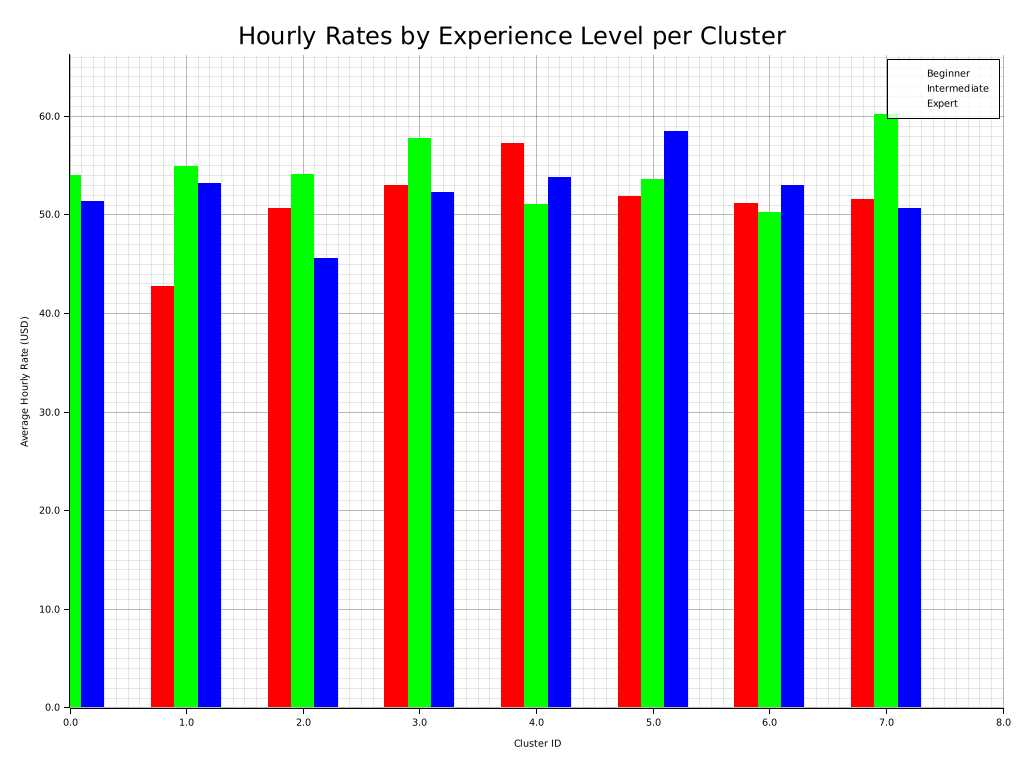
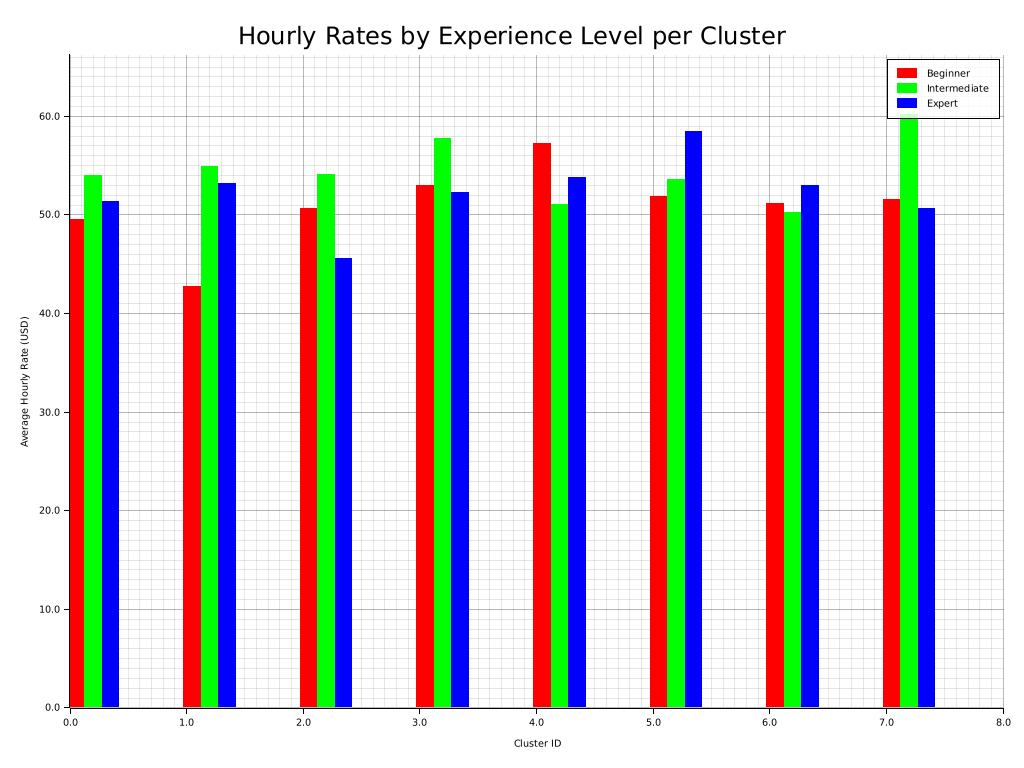
Debug Completed

diff --git a/Final/part1/src/analysis.rs b/Final/part1/src/analysis.rs
@@ -16,6 +16,7 @@ use super::data_loader::Freelancer;
 /// Number of members in each cluster
 /// Average earnings per cluster
 /// Average hourly rate per cluster
+
 pub fn analyze_cluster_performance(clusters: &[Vec<usize>], freelancers: &[Freelancer]) {
     for (cluster_id, member_indices) in clusters.iter().enumerate() {
         let mut total_earnings = 0.0;
@@ -120,6 +121,8 @@ fn print_dominant_attributes(attributes: &HashMap<(&str, String), usize>, catego
 /// Different colors for each experience level
 /// Cluster IDs on x-axis
 /// Average hourly rates on y-axis
+
+
 pub fn plot_cluster_experience_rates(
     clusters: &[Vec<usize>],
     freelancers: &[Freelancer],
@@ -127,7 +130,11 @@ pub fn plot_cluster_experience_rates(
     // 1. Prepare data structure
     let mut cluster_data = Vec::new();
     let experience_levels = ["Beginner", "Intermediate", "Expert"];
-    let colors = [RGBColor(255, 0, 0), RGBColor(0, 255, 0), RGBColor(0, 0, 255)];
+    let colors = [
+        RGBColor(255, 0, 0),    // Red for Beginner
+        RGBColor(0, 255, 0),    // Green for Intermediate
+        RGBColor(0, 0, 255),    // Blue for Expert
+    ];
 
     for (cluster_id, members) in clusters.iter().enumerate() {
         let mut exp_rates = HashMap::new();
@@ -177,13 +184,15 @@ pub fn plot_cluster_experience_rates(
         .draw()?;
 
     // 3. Draw grouped bars with proper coordinate types
-    let bar_width = 0.2;
+    let bar_width = 0.15;  // Reduced bar width for better spacing
+    let group_width = bar_width * 3.0;  // Total width for all three bars
+    
     for (exp_idx, exp) in experience_levels.iter().enumerate() {
         let x_offset = (exp_idx as f64 - 1.0) * bar_width;
 
         chart.draw_series(
             cluster_data.iter().map(|(cluster_id, rates)| {
-                let x_center = *cluster_id as f64 + x_offset;
+                let x_center = *cluster_id as f64 + 0.2 + x_offset;
                 let y_value = rates[exp_idx] as f64;
                 
                 Rectangle::new(
@@ -194,7 +203,13 @@ pub fn plot_cluster_experience_rates(
                     colors[exp_idx].filled(),
                 )
             })
-        )?.label(*exp);
+        )?.label(*exp)
+          .legend(move |(x, y)| {
+              Rectangle::new(
+                  [(x, y - 5), (x + 20, y + 5)],
+                  colors[exp_idx].filled(),
+              )
+          });
     }
 
     // 4. Add legend and finalize
